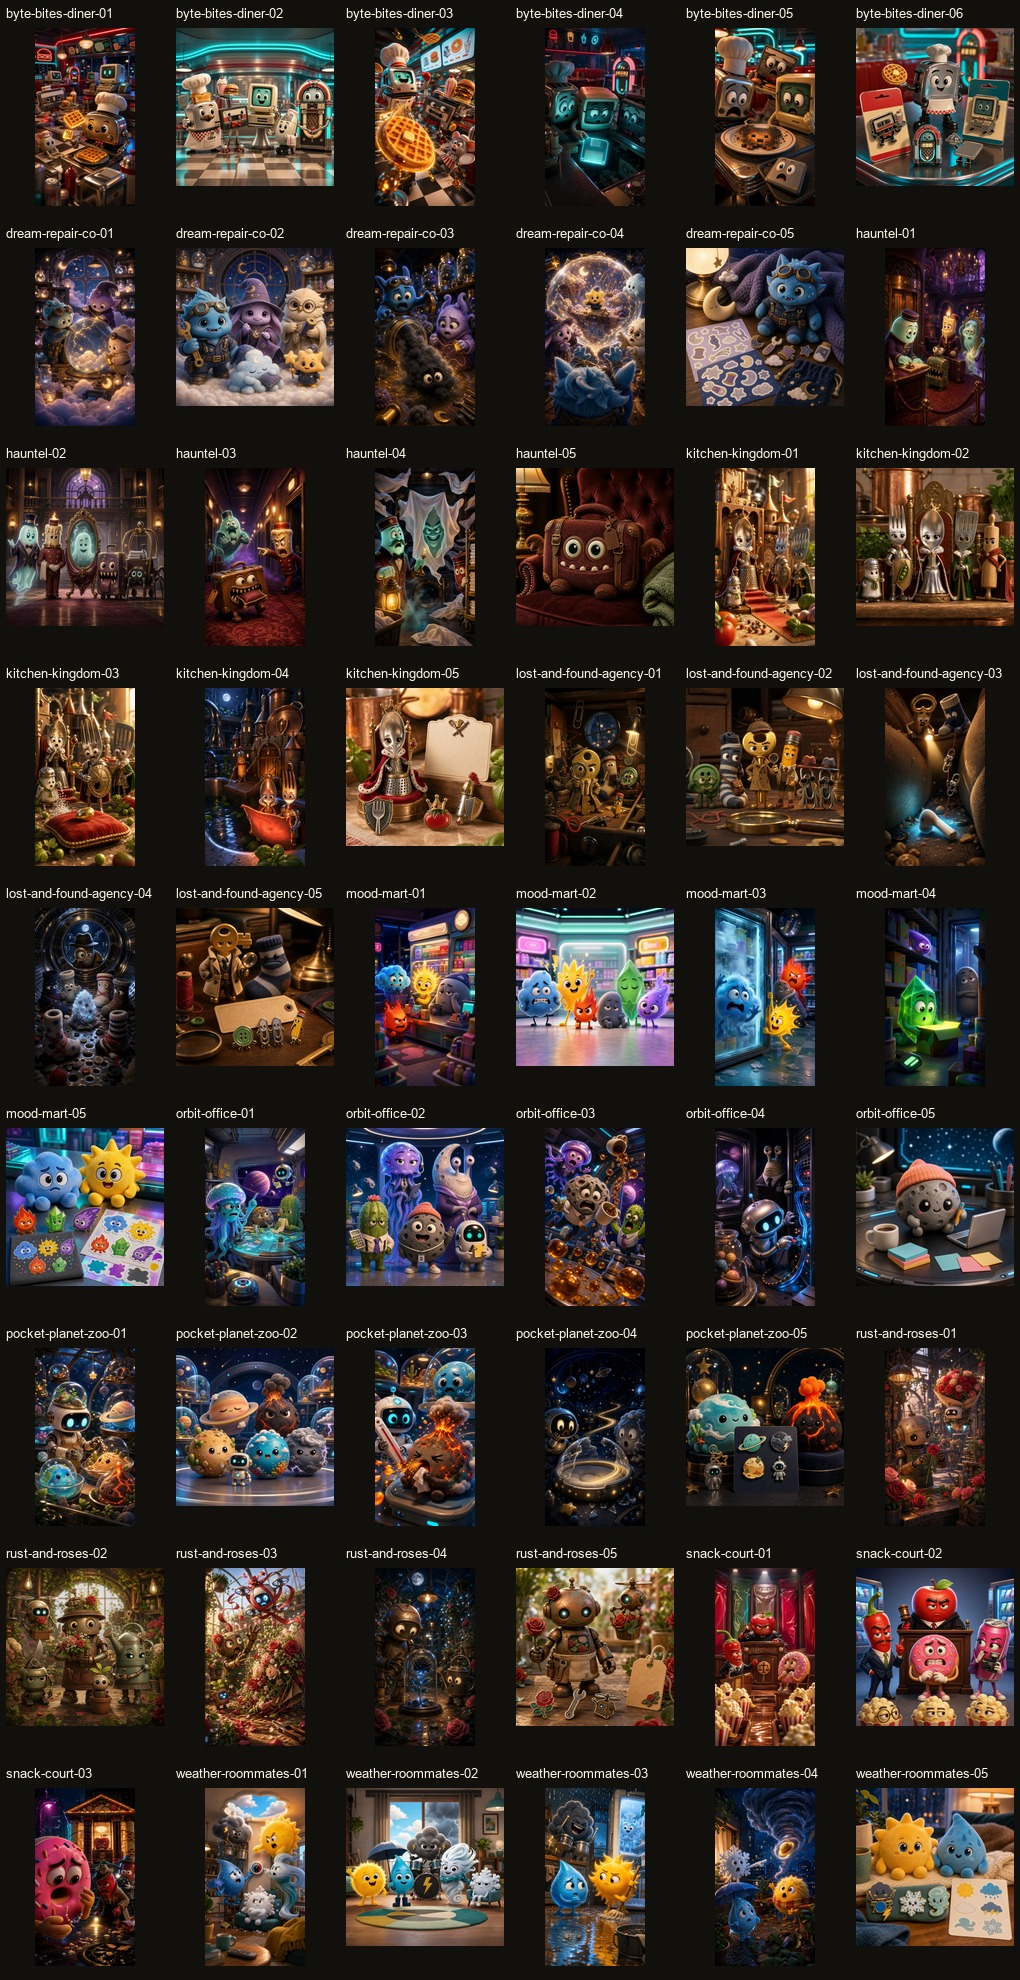
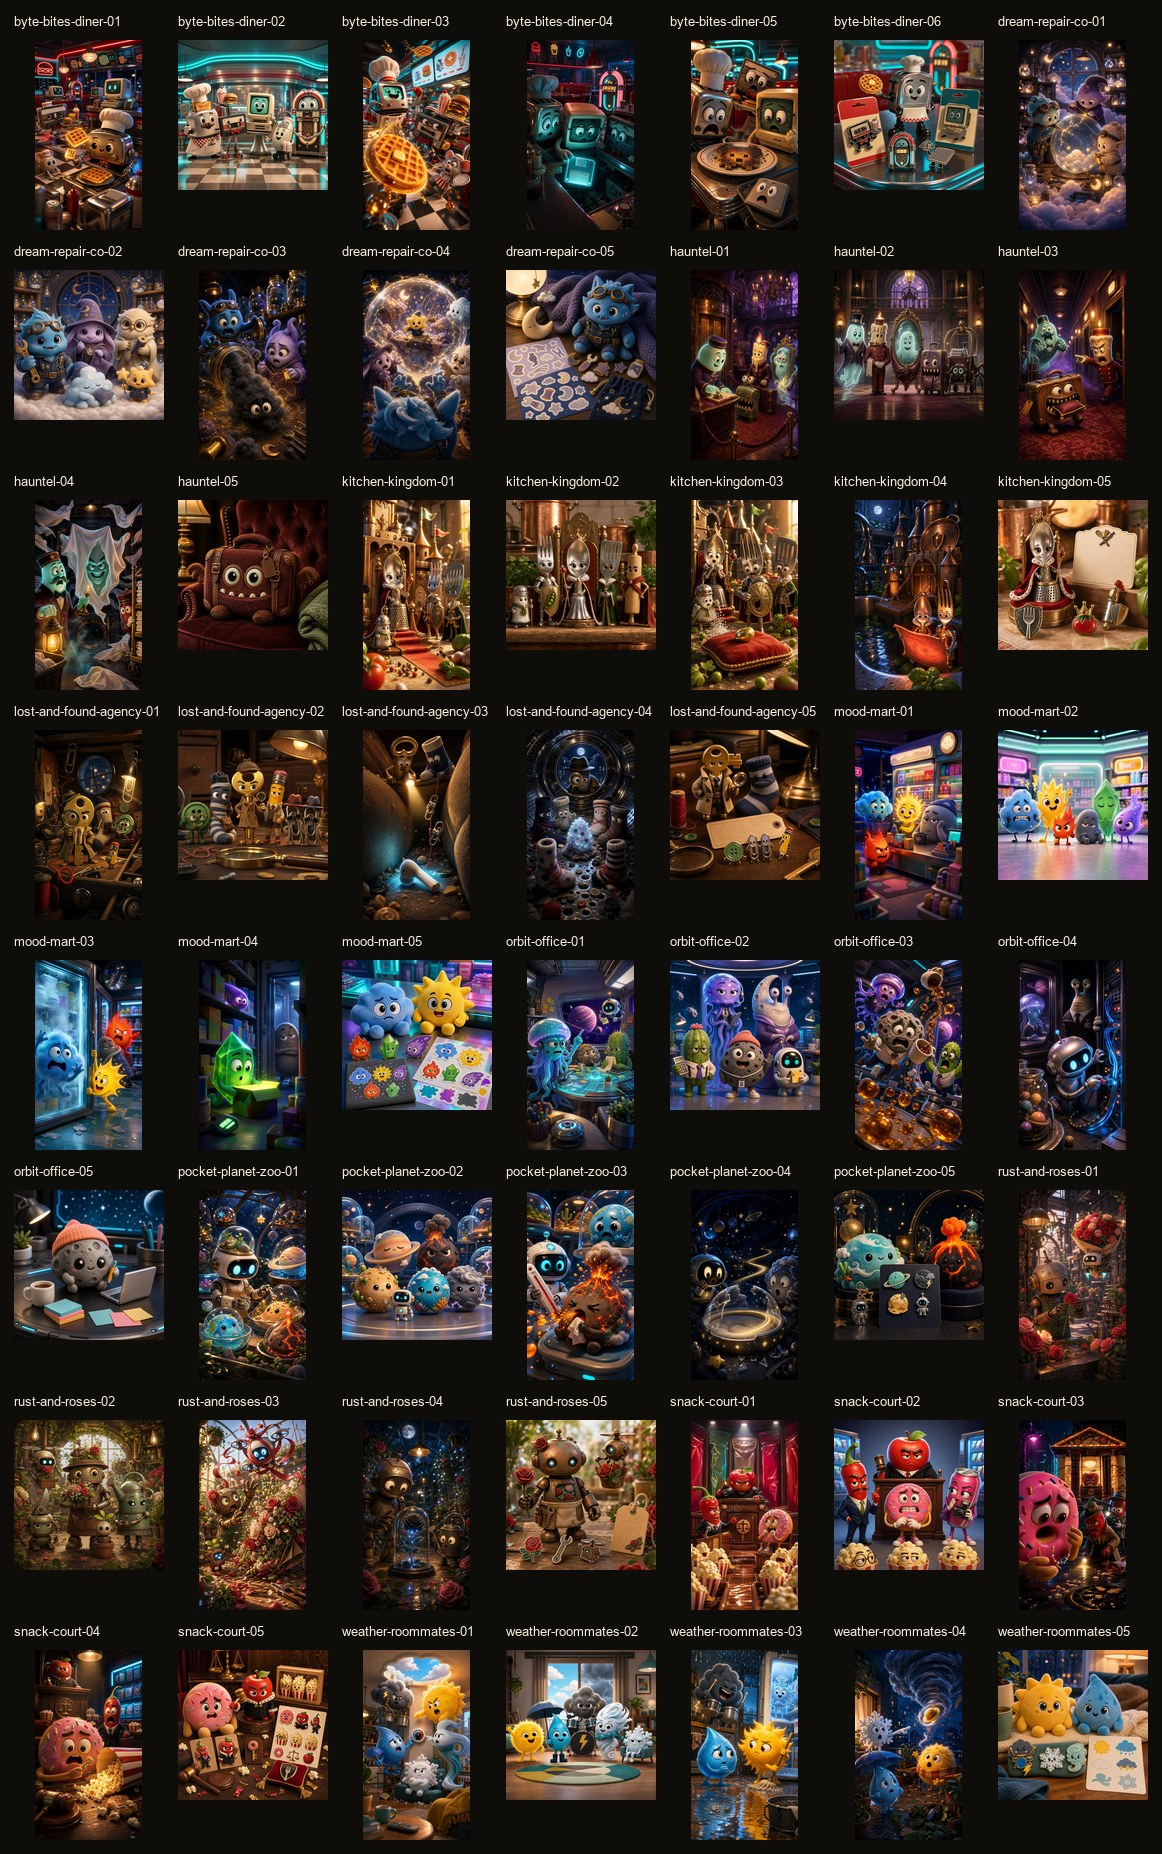
Add missing Snack Court assets

diff --git a/Social-IP-Machine/index.html b/Social-IP-Machine/index.html
@@ -44,11 +44,11 @@
           </p>
           <div class="hero-actions" aria-label="Presentation actions">
             <a class="button primary" href="#lab">Open concept lab</a>
-            <a class="button secondary" href="#gallery">View 54 assets</a>
+            <a class="button secondary" href="#gallery">View 56 assets</a>
           </div>
           <dl class="hero-stats">
             <div>
-              <dt>54</dt>
+              <dt>56</dt>
               <dd>generated visuals</dd>
             </div>
             <div>
@@ -248,6 +248,6 @@
       <p id="lightboxCaption"></p>
     </dialog>
 
-    <script src="./app.js"></script>
+    <script src="./app.js?v=snack-5"></script>
   </body>
 </html>

diff --git a/index.html b/index.html
@@ -44,11 +44,11 @@
           </p>
           <div class="hero-actions" aria-label="Presentation actions">
             <a class="button primary" href="#lab">Open concept lab</a>
-            <a class="button secondary" href="#gallery">View 54 assets</a>
+            <a class="button secondary" href="#gallery">View 56 assets</a>
           </div>
           <dl class="hero-stats">
             <div>
-              <dt>54</dt>
+              <dt>56</dt>
               <dd>generated visuals</dd>
             </div>
             <div>
@@ -248,6 +248,6 @@
       <p id="lightboxCaption"></p>
     </dialog>
 
-    <script src="./app.js"></script>
+    <script src="./app.js?v=snack-5"></script>
   </body>
 </html>

diff --git a/Social-IP-Machine/app.js b/Social-IP-Machine/app.js
@@ -17,7 +17,7 @@ const concepts = [
       "Apple judge receives a mystery note from vending machine alley.",
       "Soda reporter leaks footage that flips the whole trial."
     ],
-    images: [1, 2, 3].map((n) => imagePath("snack-court", n))
+    images: [1, 2, 3, 4, 5].map((n) => imagePath("snack-court", n))
   },
   {
     slug: "orbit-office",

diff --git a/app.js b/app.js
@@ -17,7 +17,7 @@ const concepts = [
       "Apple judge receives a mystery note from vending machine alley.",
       "Soda reporter leaks footage that flips the whole trial."
     ],
-    images: [1, 2, 3].map((n) => imagePath("snack-court", n))
+    images: [1, 2, 3, 4, 5].map((n) => imagePath("snack-court", n))
   },
   {
     slug: "orbit-office",
